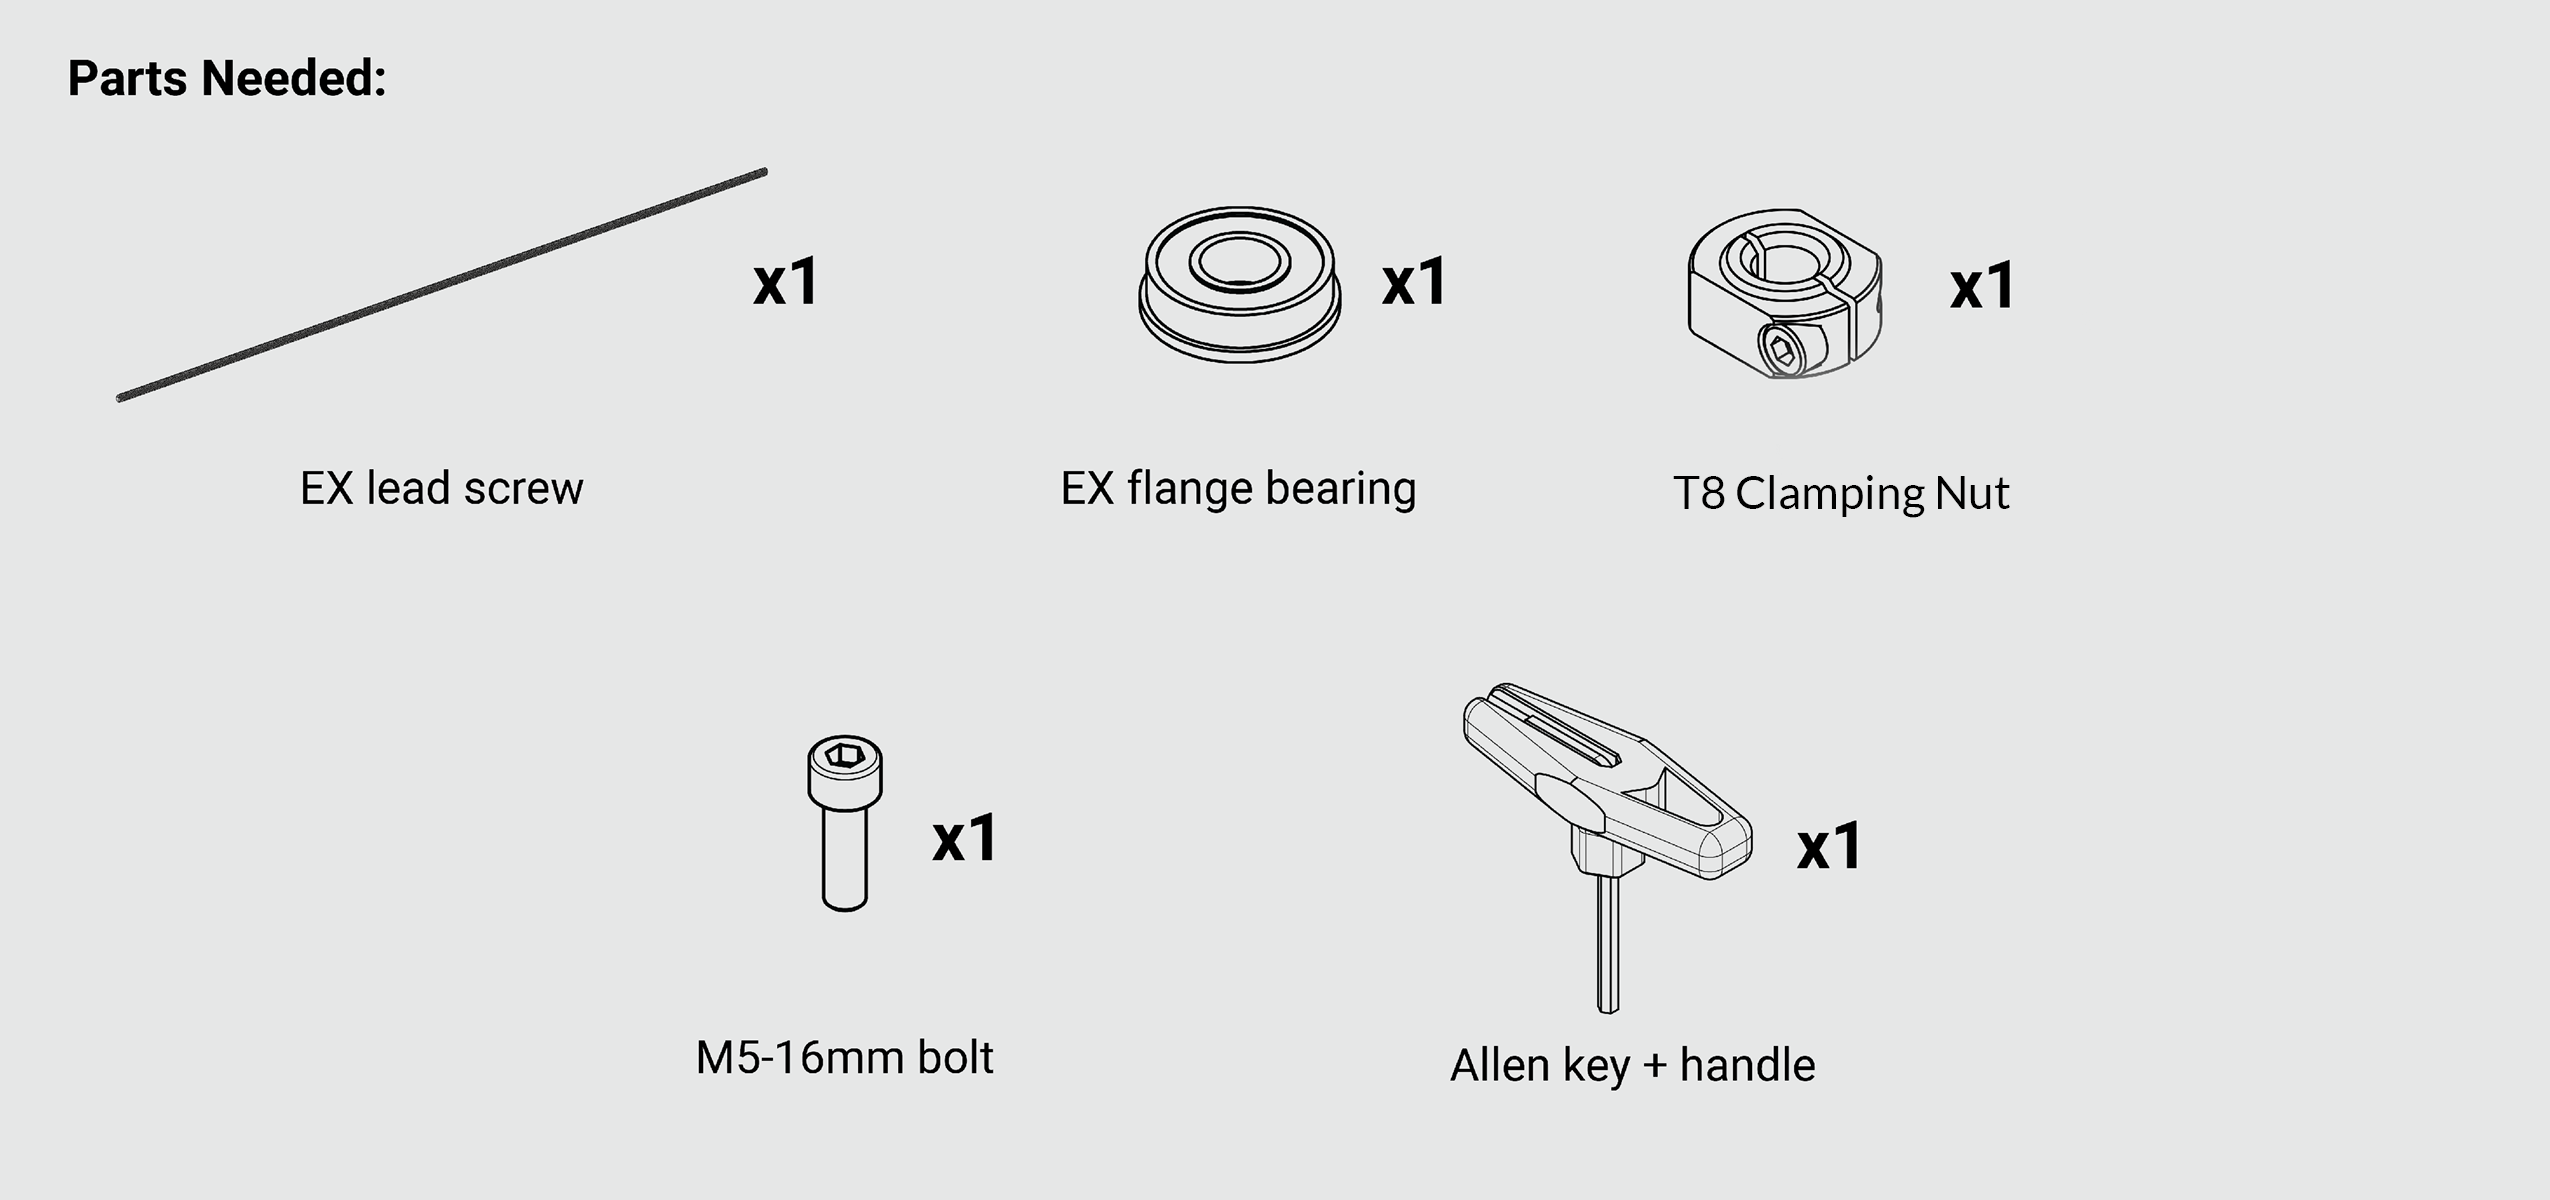
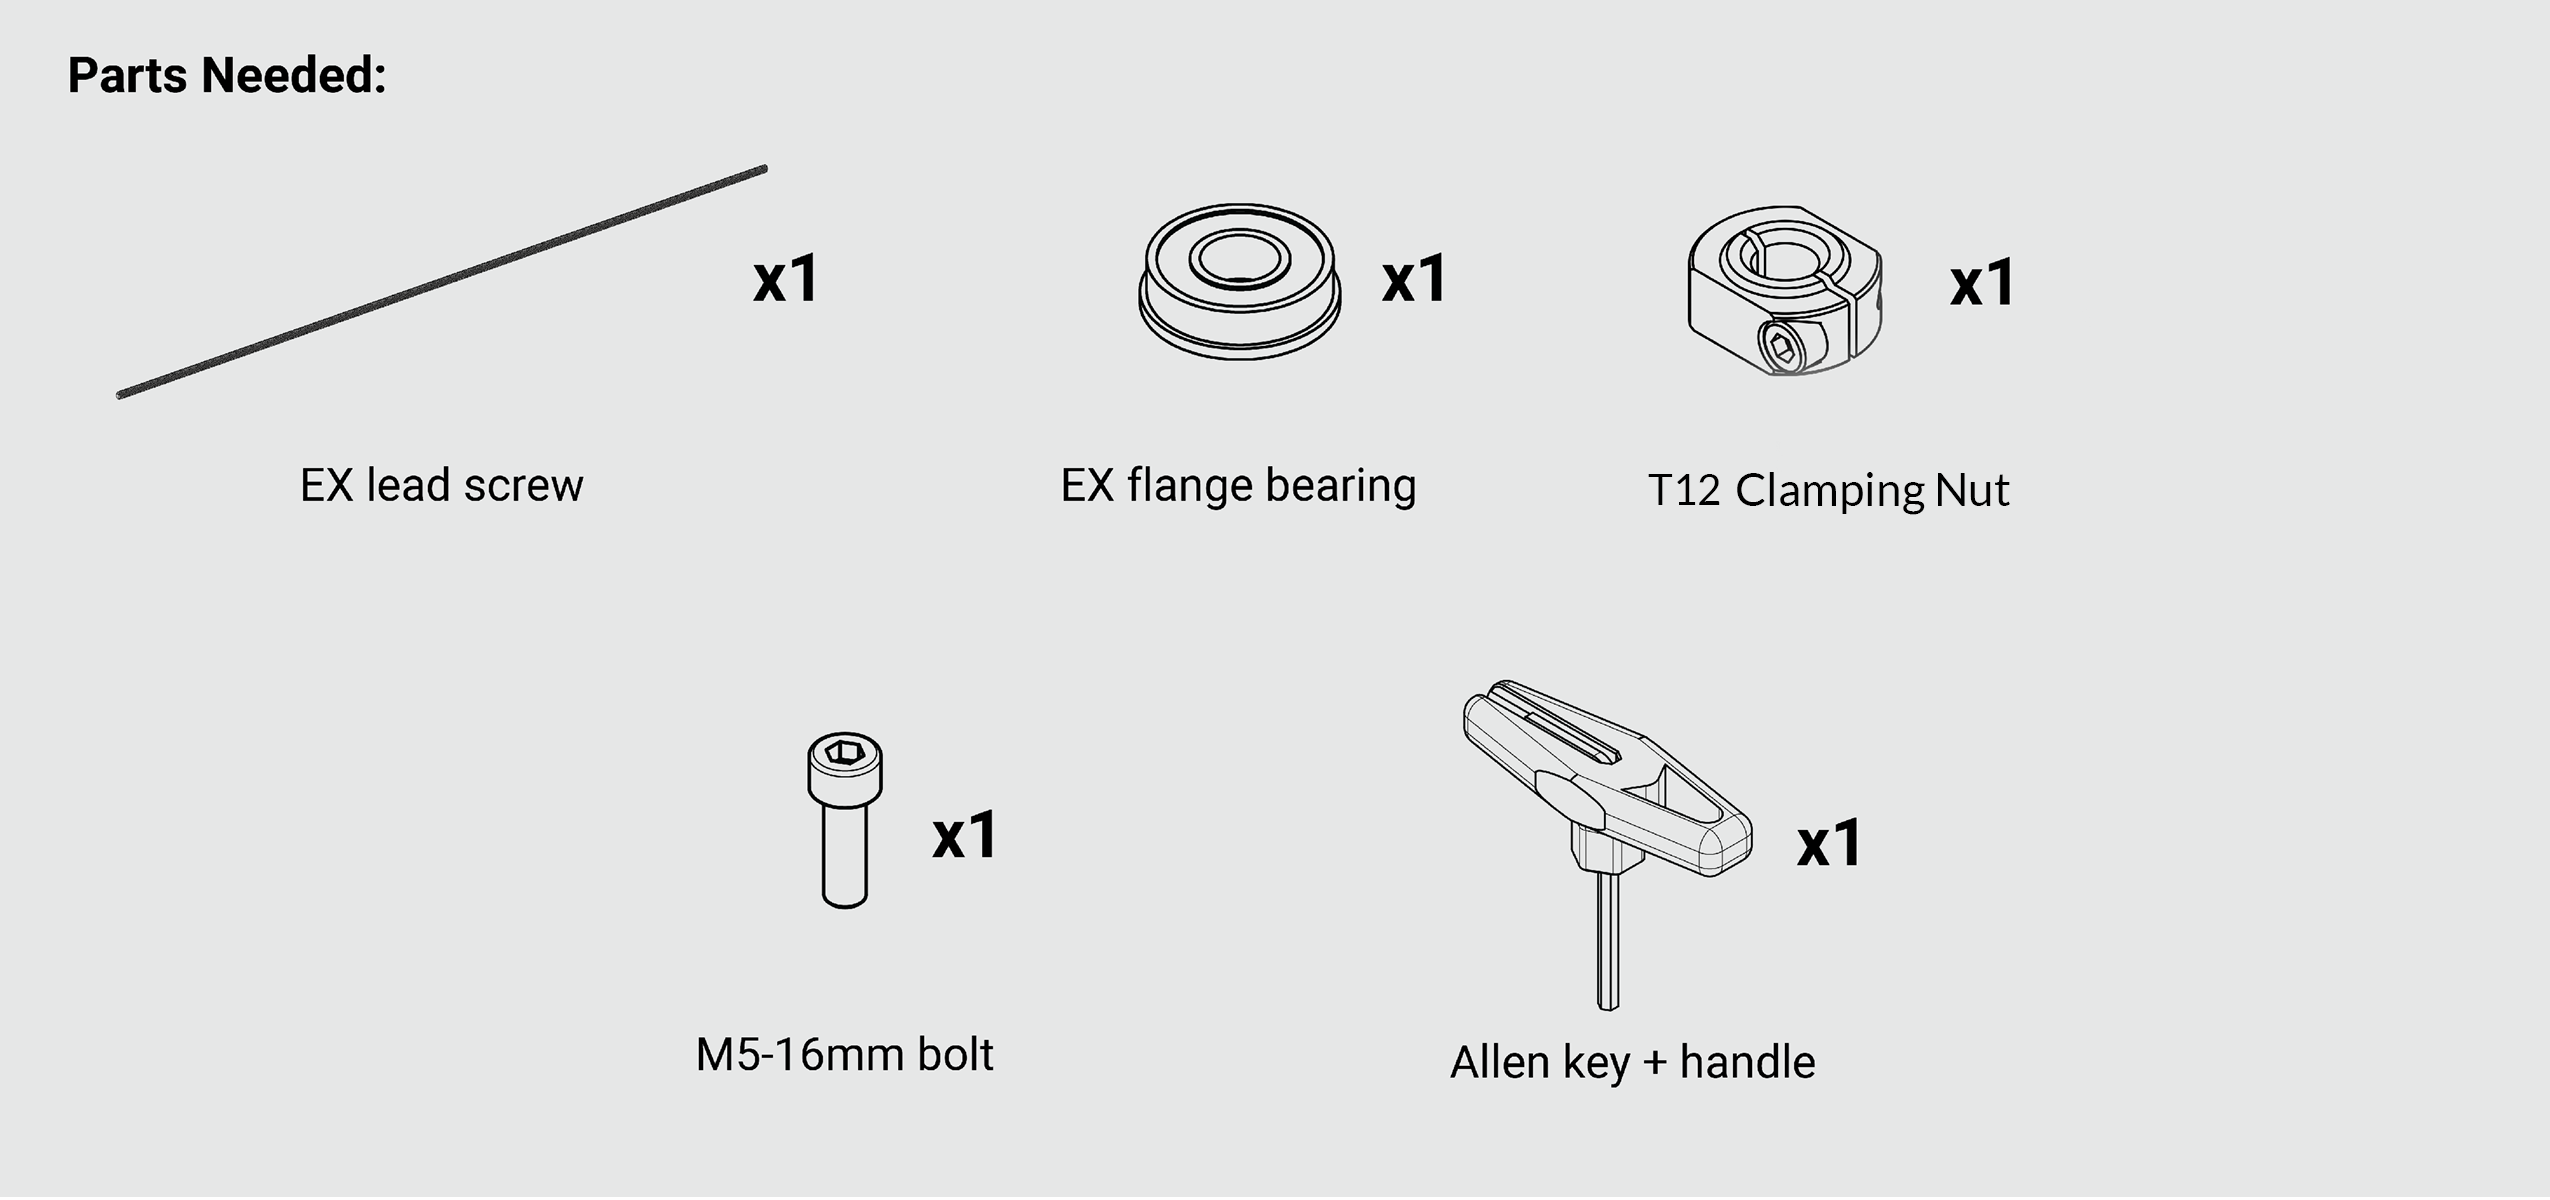
mk2 updated

diff --git a/lmmk2/assembly/lmk2-48x30-supplementary-manual.md b/lmmk2/assembly/lmk2-48x30-supplementary-manual.md
@@ -97,21 +97,21 @@ Mount this assembly onto the left Y-gantry plate, keeping the flange bearing in 
 
 ### X-axis lead screw installation
 
-<img class="wid aligncenter wp-image-7180 size-medium" src="https://resources.sienci.com/wp-content/uploads/2025/02/lmk2_extra48_48Xtension-pics-6-1.png" alt="" width="850" height="400" />
+![](/_images/_lmmk2/_assembly/_extra48/lmk2_extra48_48Xtension-pics-6-1.jpg){.aligncenter .wid .size-medium}
 
-From the EX hardware box, grab the longer EX lead screw, as well as the second EX flange bearing, T8 Clamping nut with M5-16mm bolt, and Allen key + standoff assembly.
+From the EX hardware box, grab the longer EX lead screw, as well as the second EX flange bearing, T12 Clamping nut with M5-16mm bolt, and Allen key + standoff assembly.
 
 Pass the EX lead screw through the right Y-gantry plate towards the XZ-gantry assembly. Be careful not to bend the lead screw while doing this or handling it otherwise.
 
 ![](/_images/_lmmk2/_assembly/_extra48/lmk2_extra48_IMG_4445.jpg){.aligncenter .size-medium}
 
-Begin threading the lead screw into the X-axis T12 nut.
+Begin threading the lead screw into the X-axis T12 anti-backlash nut.
 
 ![](/_images/_lmmk2/_assembly/_extra48/lmk2_extra48_48Xtension-pics-7.png){.aligncenter .size-medium}
 
 Continue threading the lead screw until it sticks out from the left side of the X-axis gantry. Slide the lead screw and X-axis gantry towards the left and pass the end of the lead screw into the flange bearing and into the motor coupler.
 
-Push the coupler towards the right, and the X-gantry towards the left to ensure the lead screw is seated properly inside the coupler.
+Push the clamping nut towards the right, and the X-gantry towards the left to ensure the lead screw is seated properly inside the coupler.
 
 ![](/_images/_lmmk2/_assembly/_extra48/lmk2_extra48_48Xtension-pics-8.png){.aligncenter .size-medium}
 
@@ -123,7 +123,7 @@ Remove the bolt from the other end of the coupler completely.
 
 ![](/_images/_lmmk2/_assembly/_extra48/lmk2_extra48_IMG_4487.jpg){.aligncenter .size-medium}
 
-Pass an Allen key through this hole of the removed bolt to lock the coupler against the motor standoffs from rotating. Alternatively, a small screwdriver, bolt, or rod can be passed through instead. Locking the lead screw from rotating will allow for easier installation of the T8 locking hex nut at the opposite side.
+Pass an Allen key through this hole of the removed bolt to lock the coupler against the motor standoffs from rotating. Alternatively, a small screwdriver, bolt, or rod can be passed through instead. Locking the lead screw from rotating will allow for easier installation of the T12 clamping nut at the opposite side.
 
 ![](/_images/_lmmk2/_assembly/_extra48/lmk2_extra48_IMG_4492.jpg){.aligncenter .size-medium}
 
@@ -131,13 +131,13 @@ At the opposite side of the lead screw on the right Y-gantry plate, slide a flan
 
 ![](/_images/_lmmk2/_assembly/_extra48/lmk2_extra48_IMG_4471.jpg){.aligncenter .size-medium}
 
-Grab the T8 Clamping nut and begin threading this onto the lead screw.
+Grab the T12 Clamping nut and begin threading this onto the lead screw.
 
 ![](/_images/_lmmk2/_assembly/_extra48/lmk2_extra48_48Xtension-pics-9.png){.aligncenter .size-medium}
 
-Using a 19mm, 3/4” , or adjustable wrench, tighten this T8 Clamping nut only until the lead screw no longer has any side-to-side play. Then tighten the M5 locking bolt into the T8 locking nut to secure this.
+Using a 19mm, 3/4” , or adjustable wrench, tighten this T12 Clamping nut only until the lead screw no longer has any side-to-side play. Then tighten the M5 locking bolt into the T12 locking nut to secure this.
 
-Turn the lead screw by hand afterwards to make sure it spins freely. If you feel any significant resistance, undo the M5 locking bolt and loosen the T8 Clamping nut a small amount.
+Turn the lead screw by hand afterwards to make sure it spins freely. If you feel any significant resistance, undo the M5 locking bolt and loosen the T12 Clamping nut a small amount.
 
 ![](/_images/_lmmk2/_assembly/_extra48/lmk2_extra48_48Xtension-pics-10.png){.aligncenter .size-medium}
 
